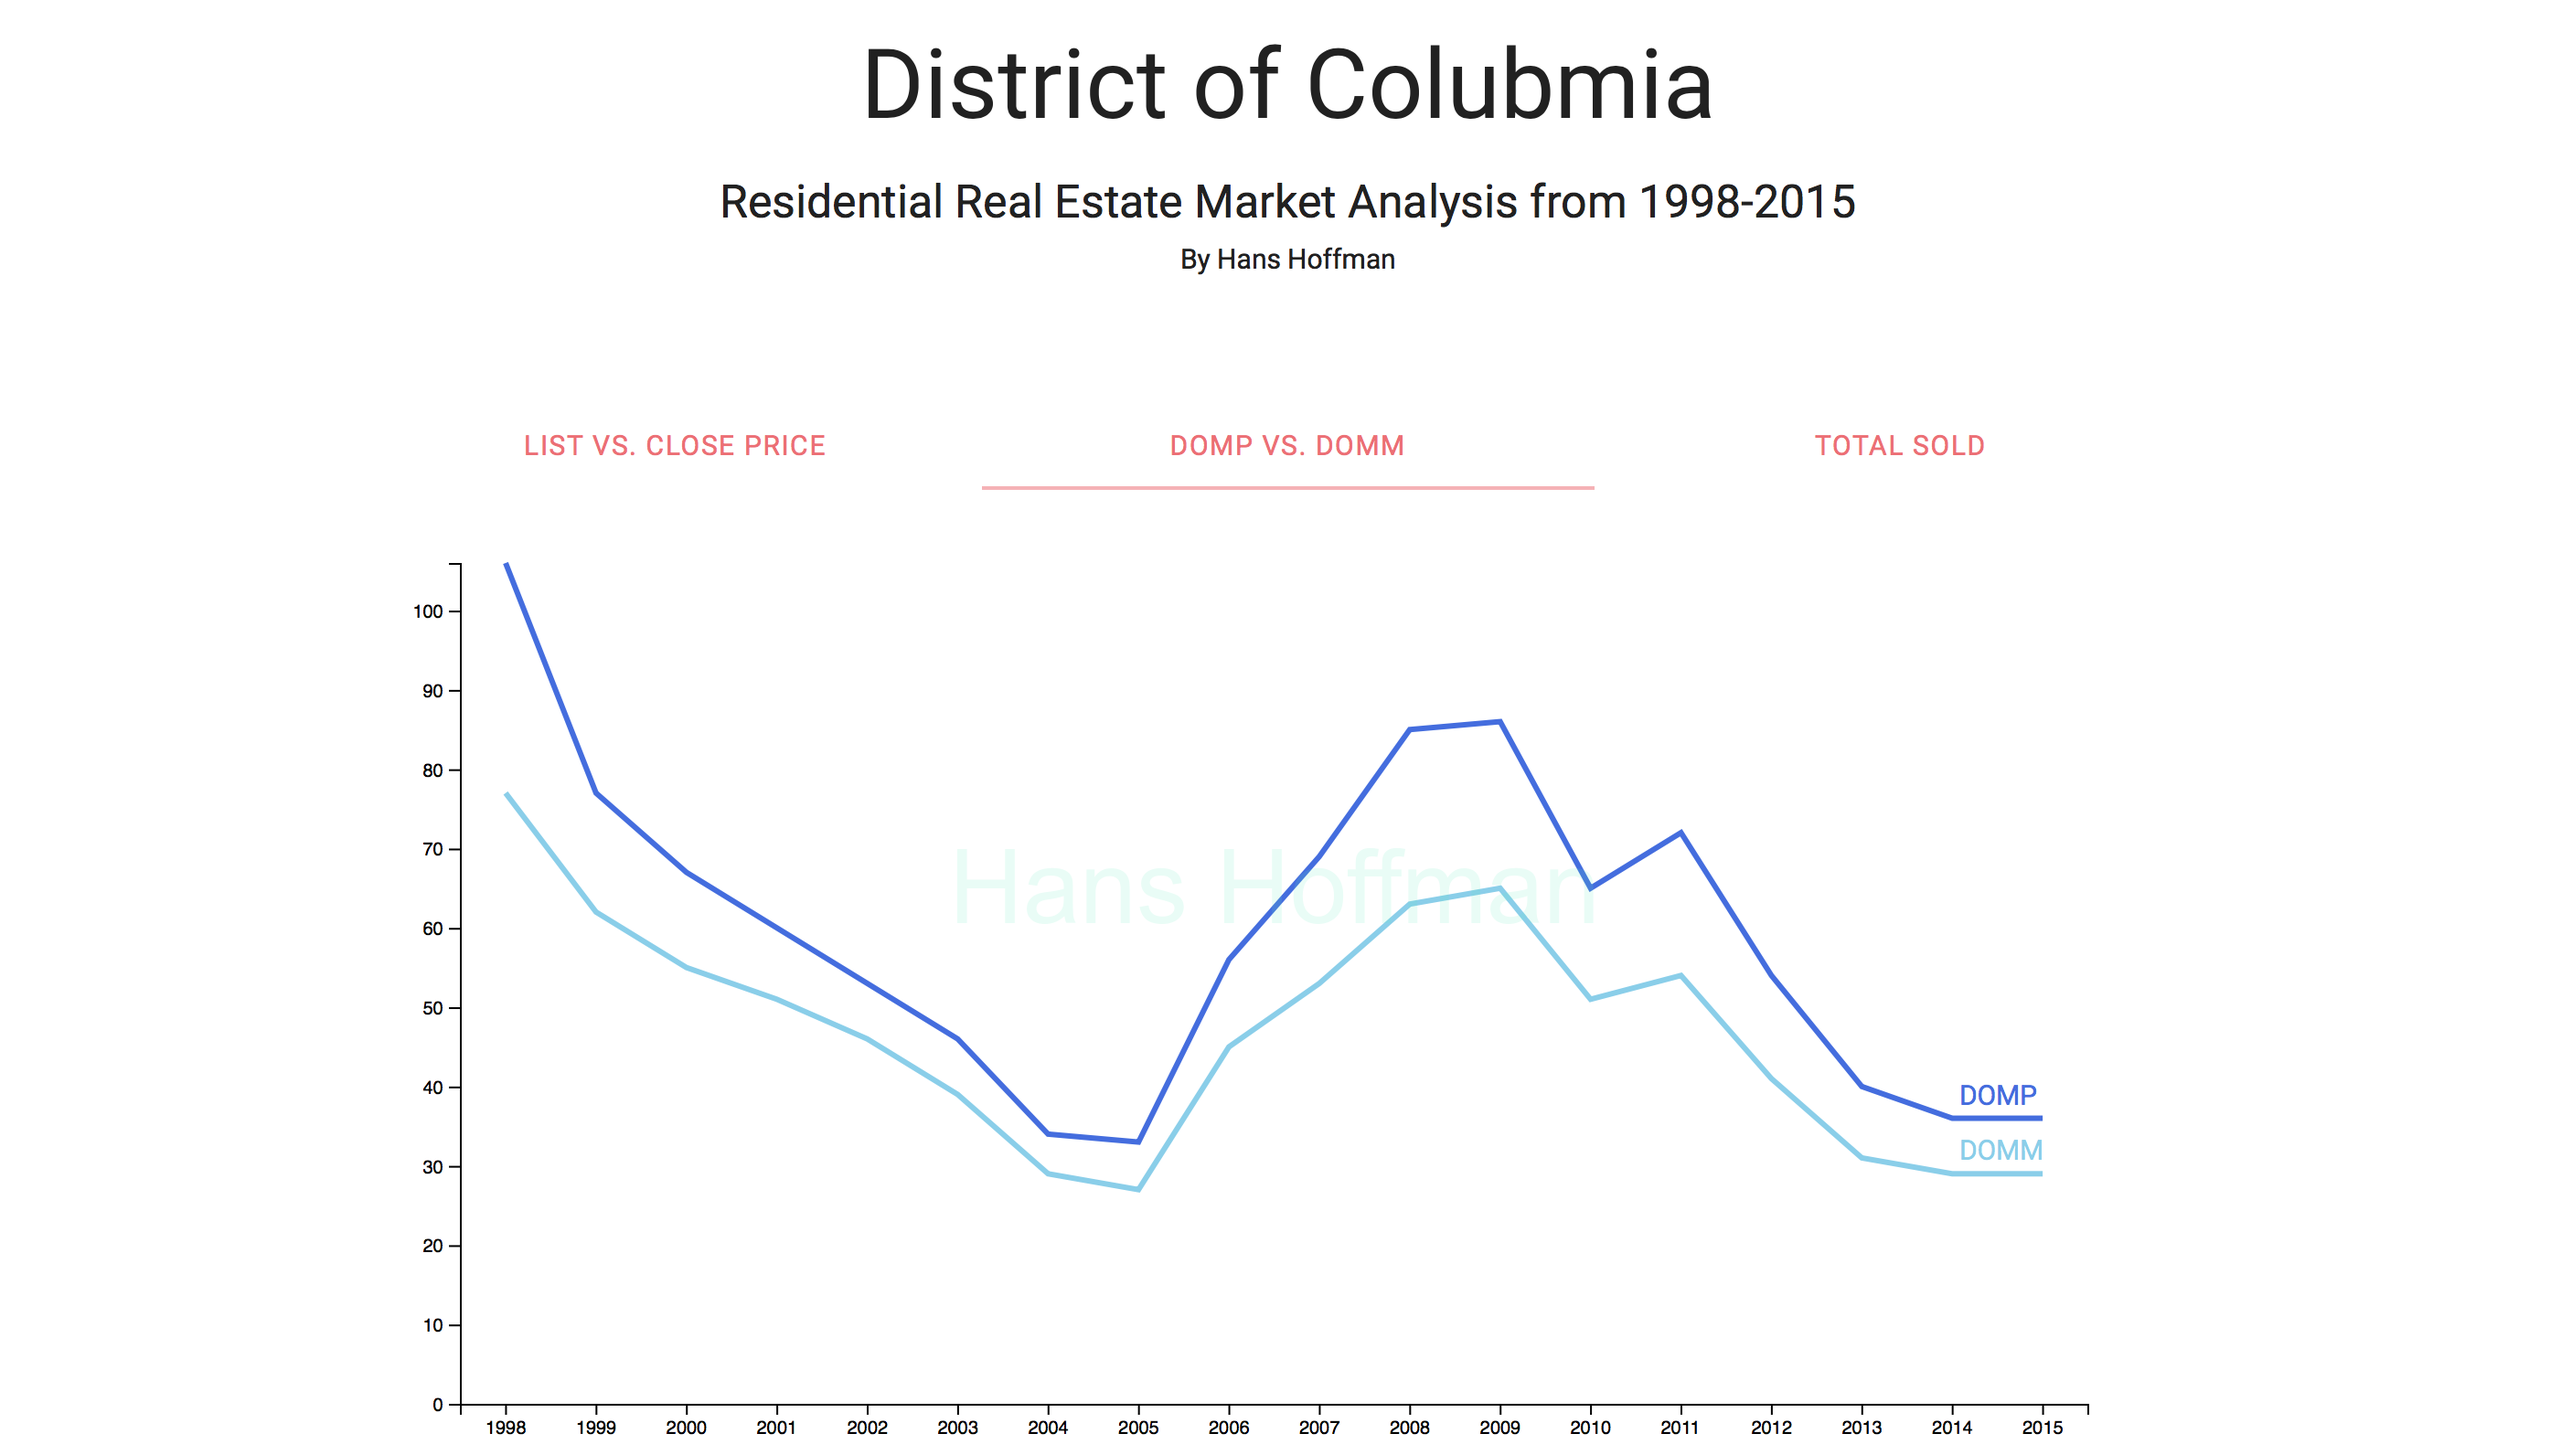
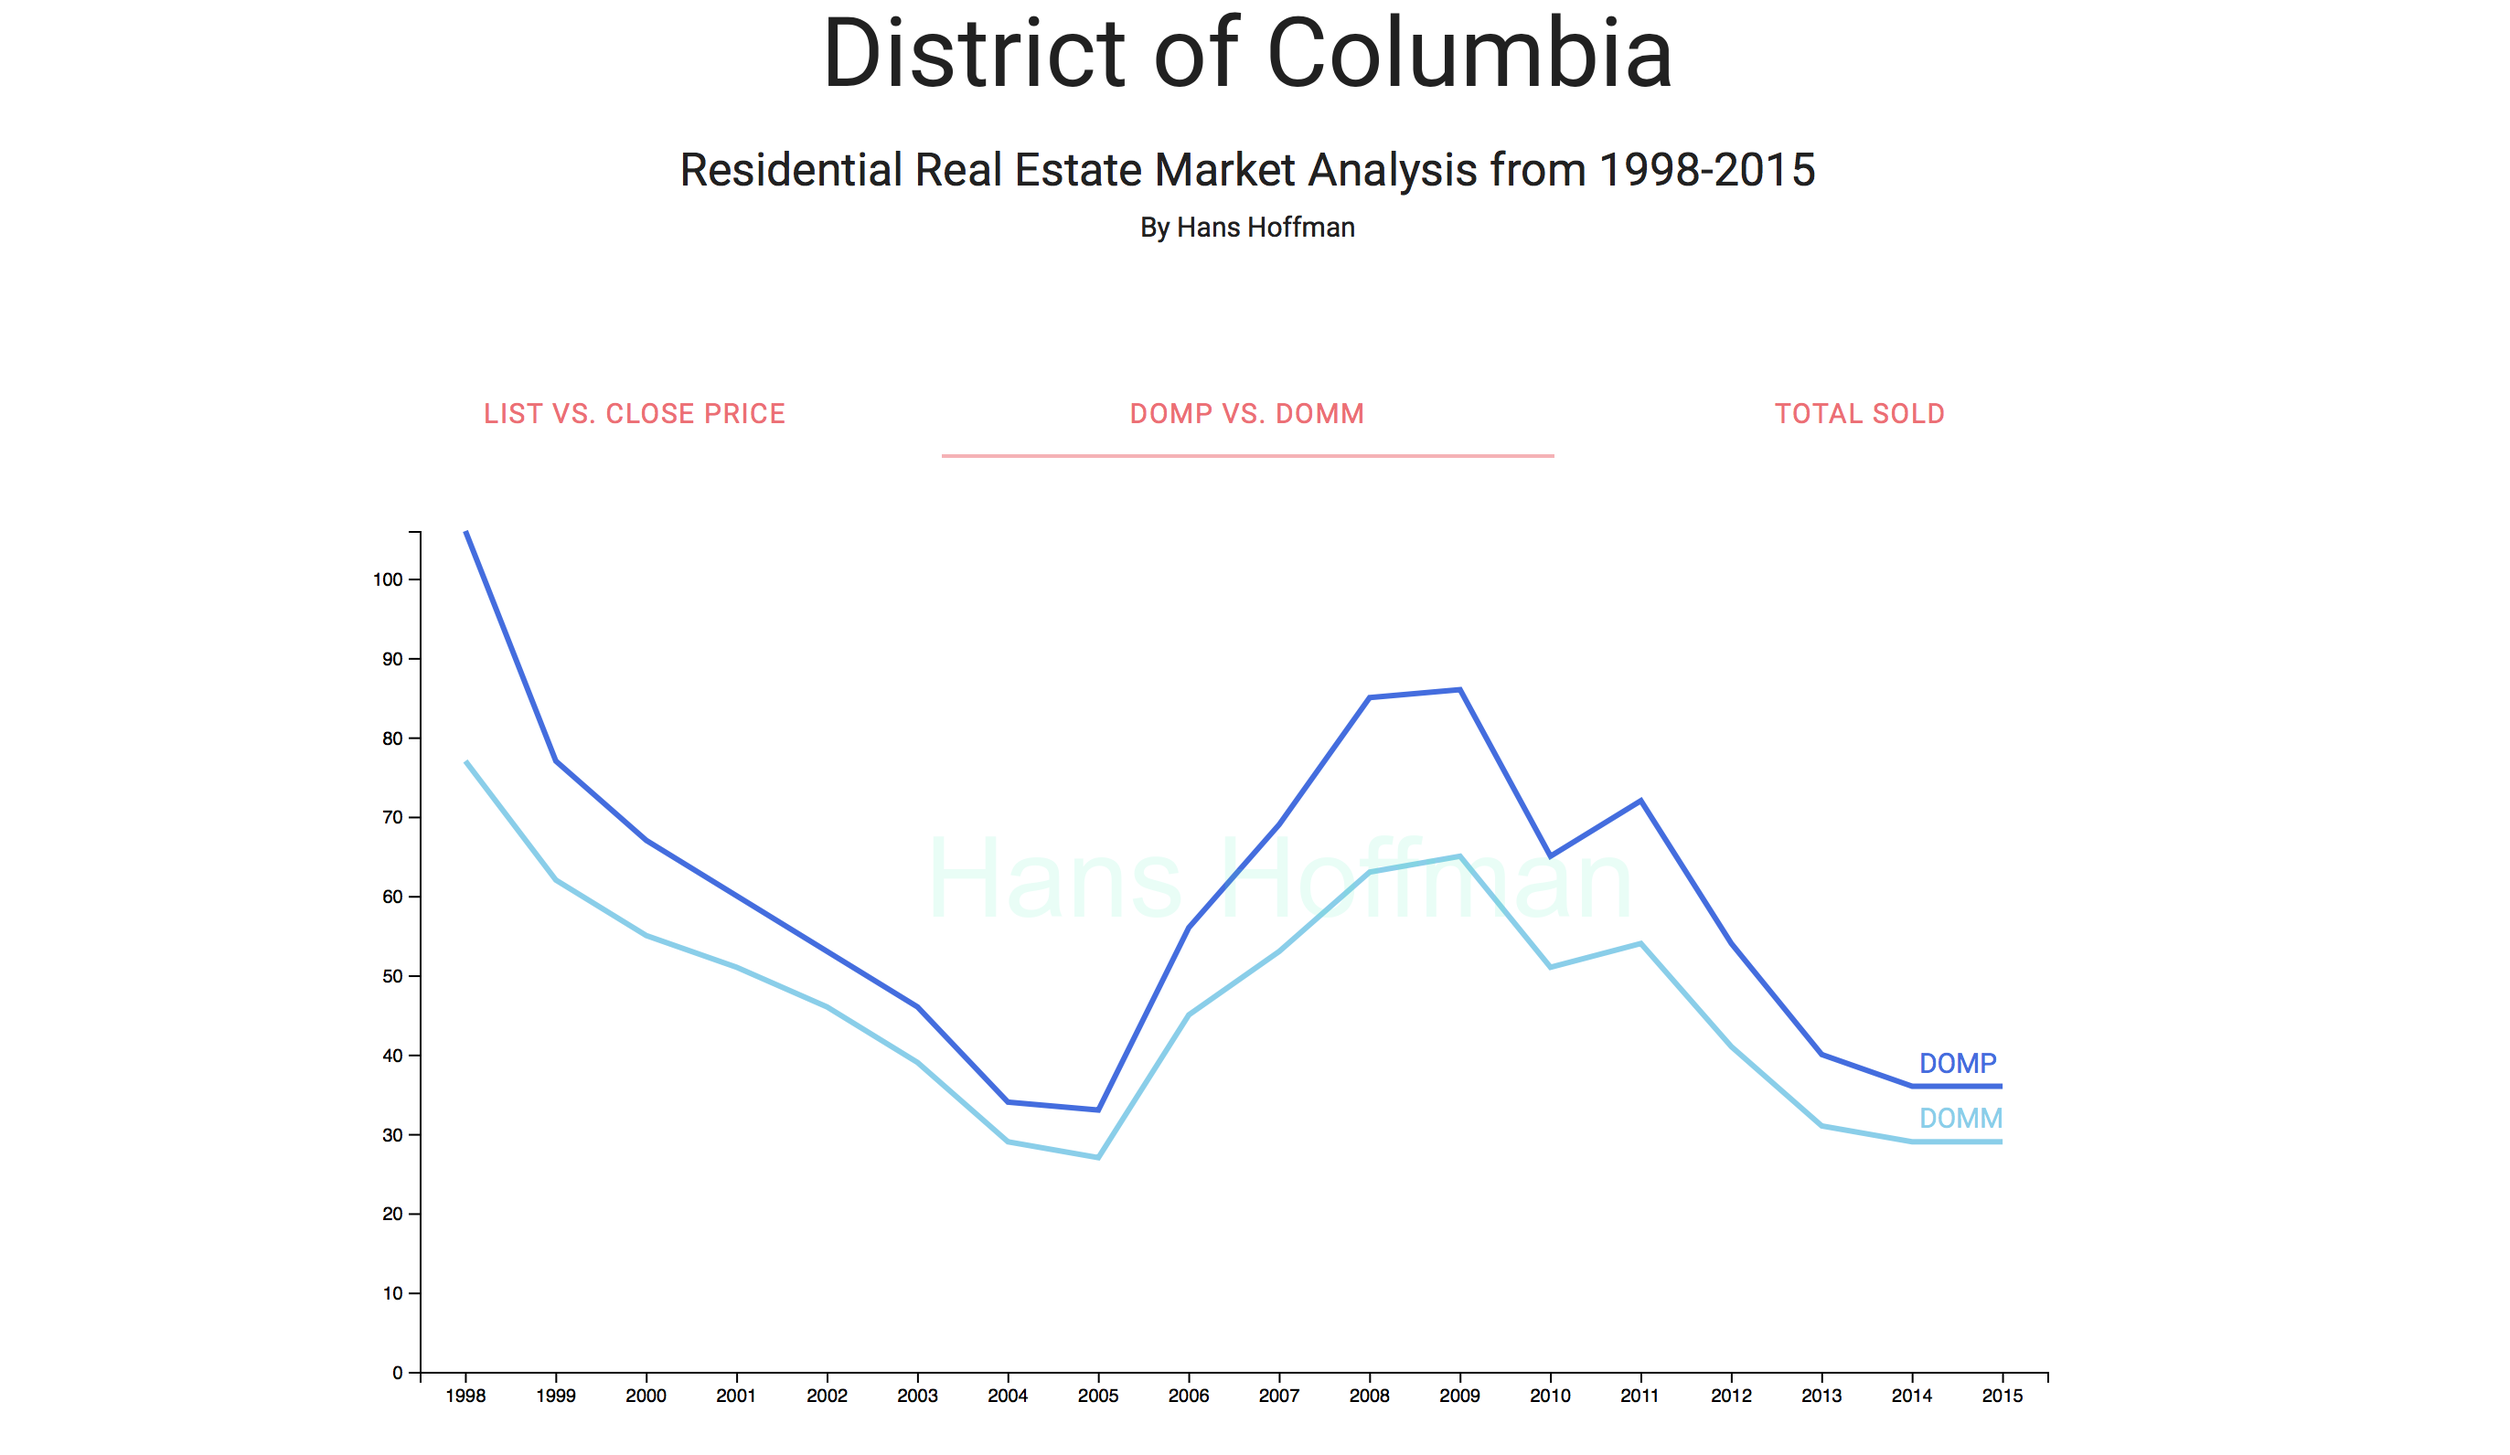
added screenshots

diff --git a/index.html b/index.html
@@ -44,7 +44,7 @@
 
     <div class="container">
       <div id="title" class="row center-align">
-        <h2>District of Colubmia</h2>
+        <h2>District of Columbia</h2>
         <h5>Residential Real Estate Market Analysis from 1998-2015</h5>
         <h6>By Hans Hoffman</h6>
       </div>

diff --git a/README.md b/README.md
@@ -1,11 +1,9 @@
 # d3-mumbo-jumbo
 Modeling District of Colubmia Residential Real Estate Market from 1998-2015 using D3.js
 
-## D3
-https://d3js.org/d3.v4.min.js
-
-## Materialize
-http://materializecss.com/
+## Resources
+D3: https://d3js.org/d3.v4.min.js
+Materialize: http://materializecss.com/
 
 ## Screenshots
 ![Alt text](/screenshots/tab2.png?raw=true "DOMP vs DOMM")
